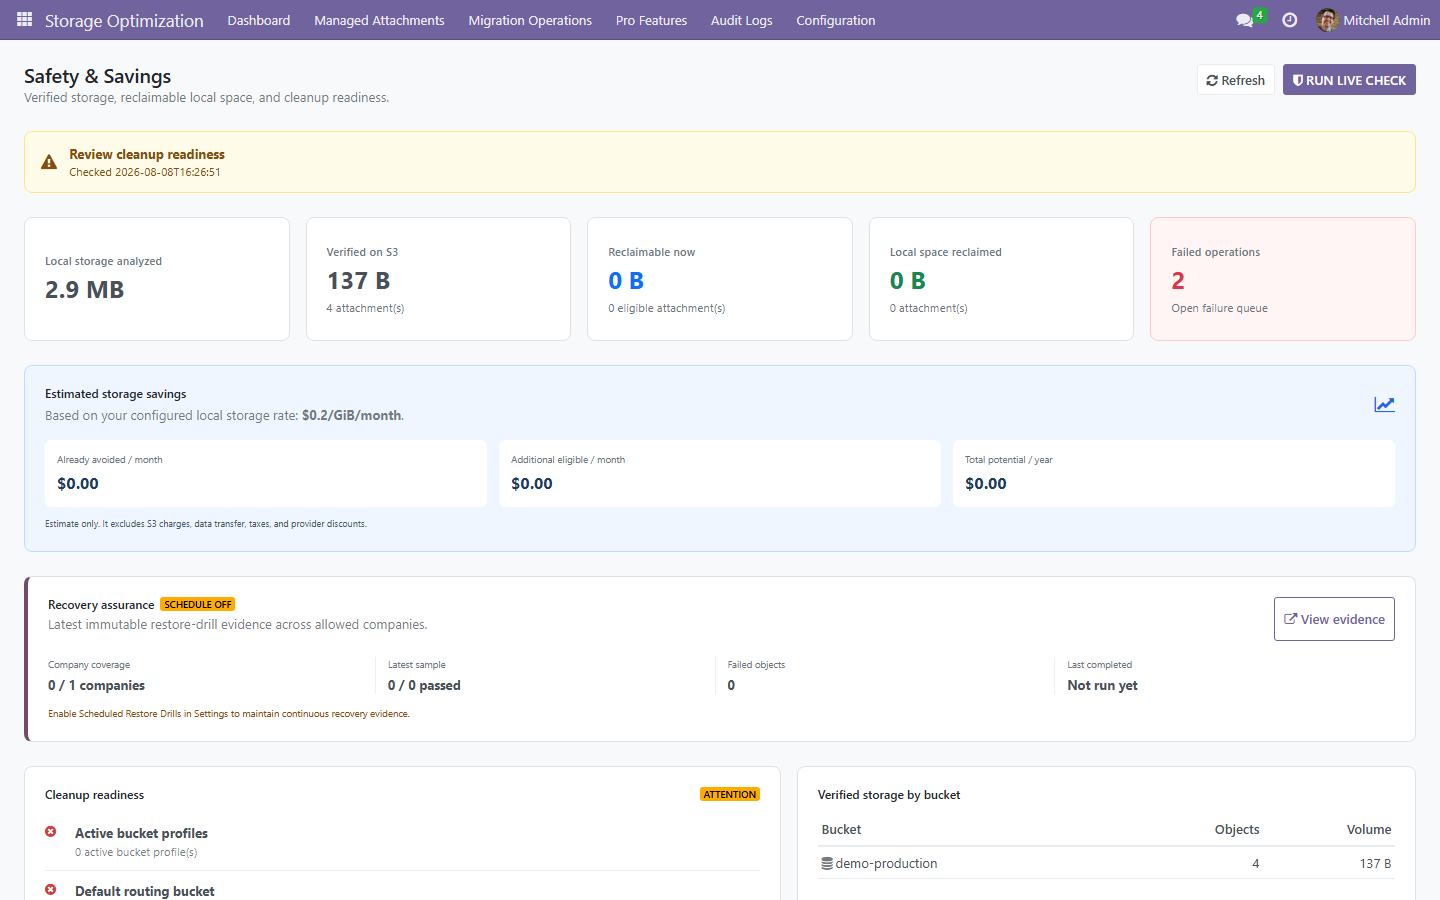
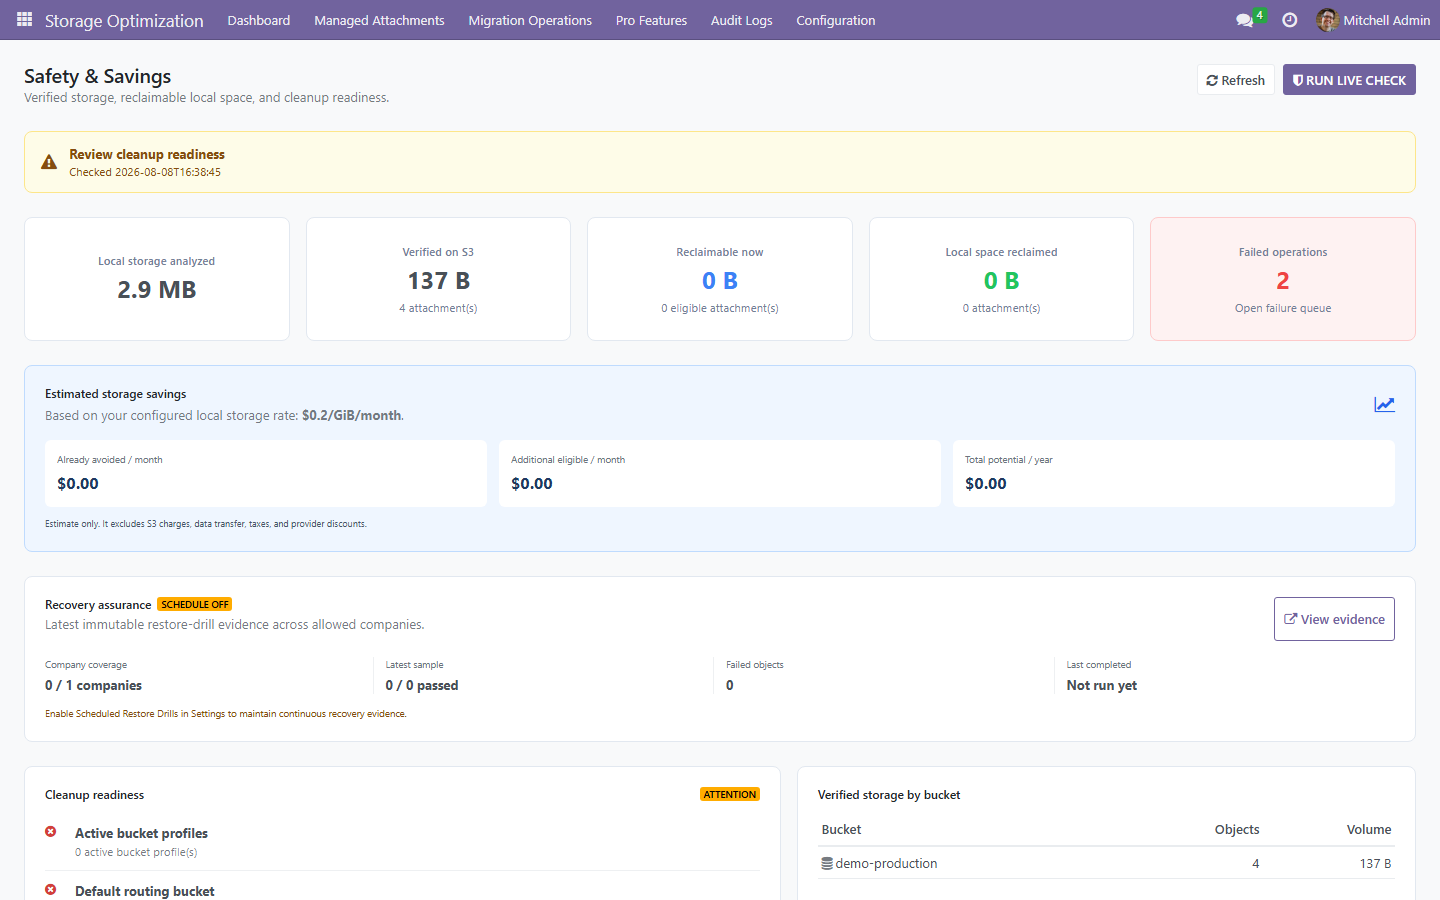
Align Pro dashboard visuals with Free

diff --git a/attachment_optimizer_pro/static/src/components/pro_dashboard/pro_dashboard.scss b/attachment_optimizer_pro/static/src/components/pro_dashboard/pro_dashboard.scss
@@ -1,10 +1,17 @@
 .o_pro_safety_dashboard {
     width: 100%;
+    max-width: none;
     margin: 0;
     padding: 24px;
     box-sizing: border-box;
     min-height: 100%;
     position: relative;
+}
+
+html .o_web_client .o_action_manager .o_pro_safety_dashboard {
+    width: 100%;
+    max-width: none;
+    margin: 0;
 }
 
 .o_pro_dashboard_header,
@@ -44,11 +51,12 @@
     min-width: 0;
     min-height: 124px;
     padding: 20px;
-    border: 1px solid #dee2e6;
+    border: 1px solid #e2e8f0;
     border-radius: 8px;
     background: var(--o-view-background-color, #fff);
     color: inherit;
-    text-align: left;
+    text-align: center;
+    align-items: center;
     display: flex;
     flex-direction: column;
     justify-content: center;
@@ -60,15 +68,15 @@
     font-variant-numeric: tabular-nums;
 }
 .o_pro_kpi_card small,
-.o_pro_kpi_label { color: var(--o-gray-600, #6c757d); }
+.o_pro_kpi_label { color: #718096; }
 .o_pro_kpi_label { font-size: .95rem; font-weight: 600; }
 .o_pro_kpi_action { cursor: pointer; transition: border-color .15s ease, box-shadow .15s ease; }
 .o_pro_kpi_action:hover,
 .o_pro_kpi_action:focus-visible { border-color: var(--o-brand-primary, #714b67); box-shadow: 0 0 0 3px rgba(113, 75, 103, .12); outline: 0; }
-.o_pro_kpi_primary strong { color: #0d6efd; }
-.o_pro_kpi_success strong { color: #198754; }
-.o_pro_kpi_danger { background: #fff5f5; border-color: #fecaca; }
-.o_pro_kpi_danger strong { color: #dc3545; }
+.o_pro_kpi_primary strong { color: #3b82f6; }
+.o_pro_kpi_success strong { color: #22c55e; }
+.o_pro_kpi_danger { background: #fef2f2; border-color: #fecaca; }
+.o_pro_kpi_danger strong { color: #ef4444; }
 
 .o_pro_savings_panel {
     margin-bottom: 24px;
@@ -104,8 +112,7 @@
 .o_pro_assurance_panel {
     margin-bottom: 24px;
     padding: 20px;
-    border: 1px solid #dee2e6;
-    border-left: 4px solid var(--o-brand-primary, #714b67);
+    border: 1px solid #e2e8f0;
     border-radius: 8px;
     background: var(--o-view-background-color, #fff);
 }
@@ -130,7 +137,7 @@
 .o_pro_assurance_hint { margin-top: 12px; color: #854d0e; font-size: .8rem; }
 .o_pro_assurance_error { color: #b42318; }
 .o_pro_dashboard_columns { display: grid; grid-template-columns: 1.1fr .9fr; gap: 16px; }
-.o_pro_panel { background: var(--o-view-background-color, #fff); border: 1px solid #dee2e6; border-radius: 8px; padding: 20px; }
+.o_pro_panel { background: var(--o-view-background-color, #fff); border: 1px solid #e2e8f0; border-radius: 8px; padding: 20px; }
 .o_pro_panel_header { align-items: center; margin-bottom: 12px; }
 .o_pro_check_list { display: flex; flex-direction: column; }
 .o_pro_check { display: grid; grid-template-columns: 20px 1fr; gap: 10px; padding: 10px 0; border-top: 1px solid #eef0f2; }

diff --git a/attachment_optimizer_pro/static/description/index.html b/attachment_optimizer_pro/static/description/index.html
@@ -96,6 +96,6 @@ For subsequent modules, update content inside sections only. Do not alter sectio
     </div>
 
     <!-- FOOTER -->
-    <div style="border:1px solid #e2e8f0; border-radius:16px; padding:32px 24px; margin:40px 0 16px; text-align:center;"><div style="font-size:14px; font-weight:700; color:#1e293b; text-transform:uppercase;">Attachment Optimizer Pro</div><p style="font-size:13px; color:#64748b; line-height:1.6;">Automated, verified S3-compatible attachment lifecycle management for Odoo.</p><div style="display:inline-block; border:2px solid #4f46e5; color:#4f46e5; font-weight:700; font-size:13px; padding:10px 28px; border-radius:8px;">US$49 · One-Time · No Subscription</div><p style="font-size:11px; color:#94a3b8; margin:20px 0 0;">Version 16.0.1.0.17 · Built and maintained by FoxPink</p></div>
+    <div style="border:1px solid #e2e8f0; border-radius:16px; padding:32px 24px; margin:40px 0 16px; text-align:center;"><div style="font-size:14px; font-weight:700; color:#1e293b; text-transform:uppercase;">Attachment Optimizer Pro</div><p style="font-size:13px; color:#64748b; line-height:1.6;">Automated, verified S3-compatible attachment lifecycle management for Odoo.</p><div style="display:inline-block; border:2px solid #4f46e5; color:#4f46e5; font-weight:700; font-size:13px; padding:10px 28px; border-radius:8px;">US$49 · One-Time · No Subscription</div><p style="font-size:11px; color:#94a3b8; margin:20px 0 0;">Version 16.0.1.0.18 · Built and maintained by FoxPink</p></div>
   </div>
 </section>

diff --git a/attachment_optimizer_pro/__manifest__.py b/attachment_optimizer_pro/__manifest__.py
@@ -1,6 +1,6 @@
 {
     "name": "Attachment Optimizer Pro",
-    "version": "16.0.1.0.17",
+    "version": "16.0.1.0.18",
     "category": "Storage",
     "summary": "Automation, cleanup, routing and lifecycle for S3-compatible attachment storage.",
     "description": """

diff --git a/README.md b/README.md
@@ -8,7 +8,7 @@ Only update product content, version, links, compatibility status, screenshots, 
 
 ![Attachment Optimizer Pro](attachment_optimizer_pro/static/description/preview.png)
 
-**Version:** 16.0.1.0.17 -- **License:** OPL-1 -- **Publisher:** FoxPink -- Maintained for **Odoo 16.0**
+**Version:** 16.0.1.0.18 -- **License:** OPL-1 -- **Publisher:** FoxPink -- Maintained for **Odoo 16.0**
 
 ---
 
